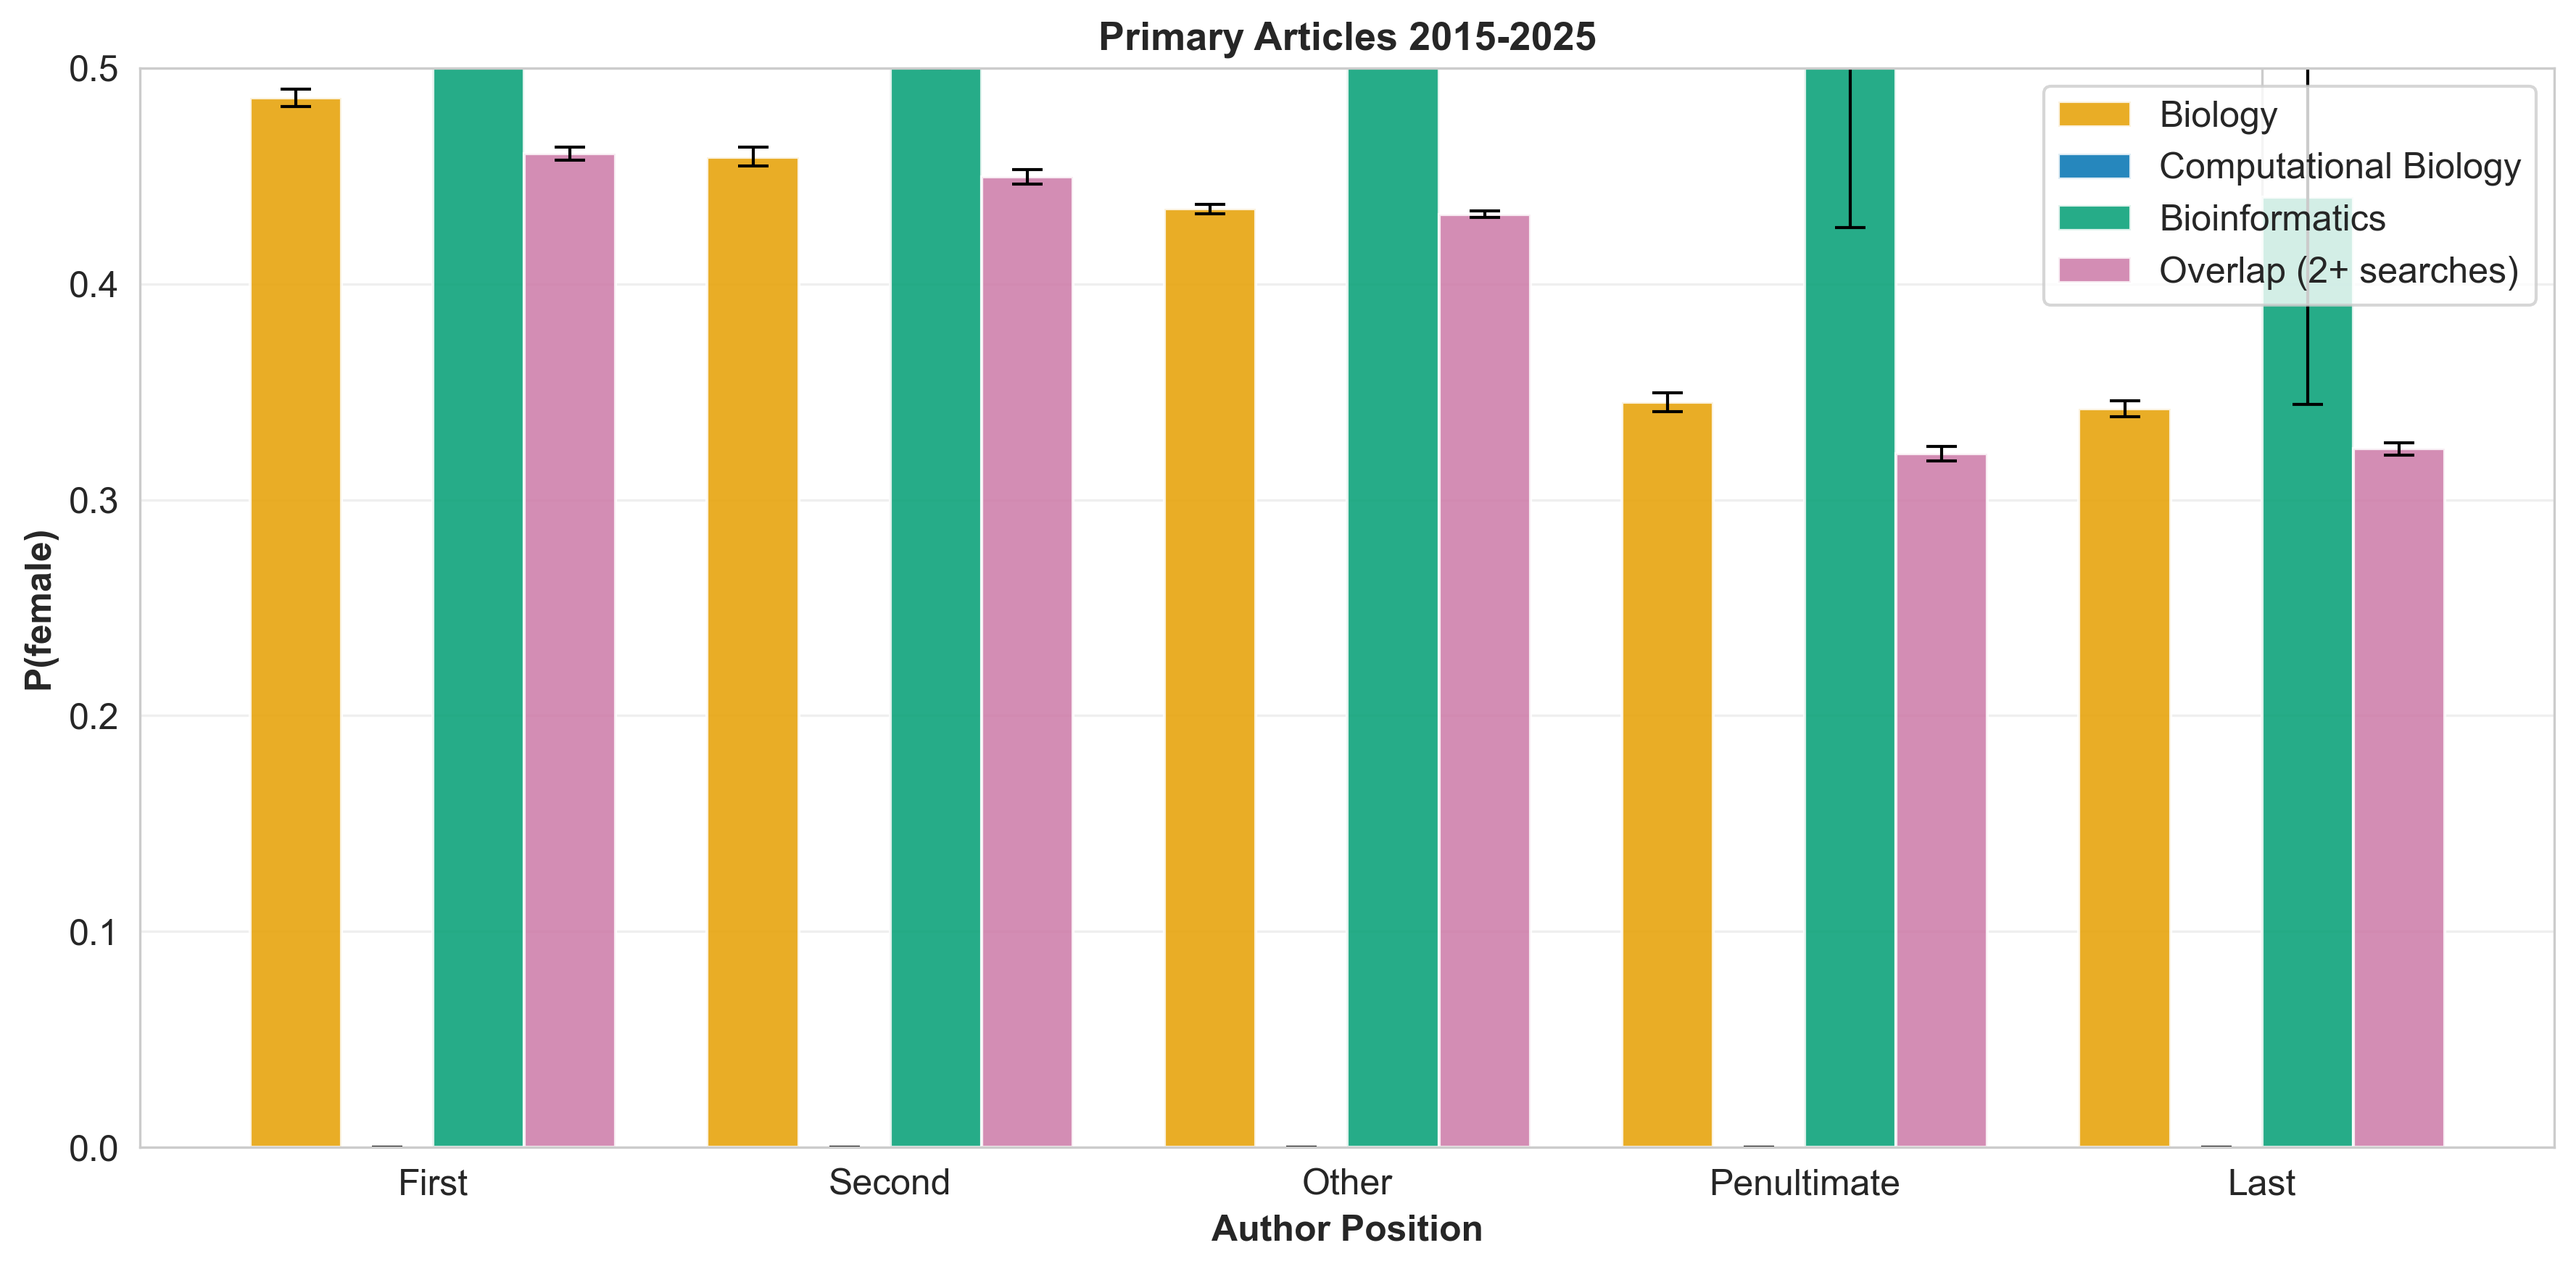
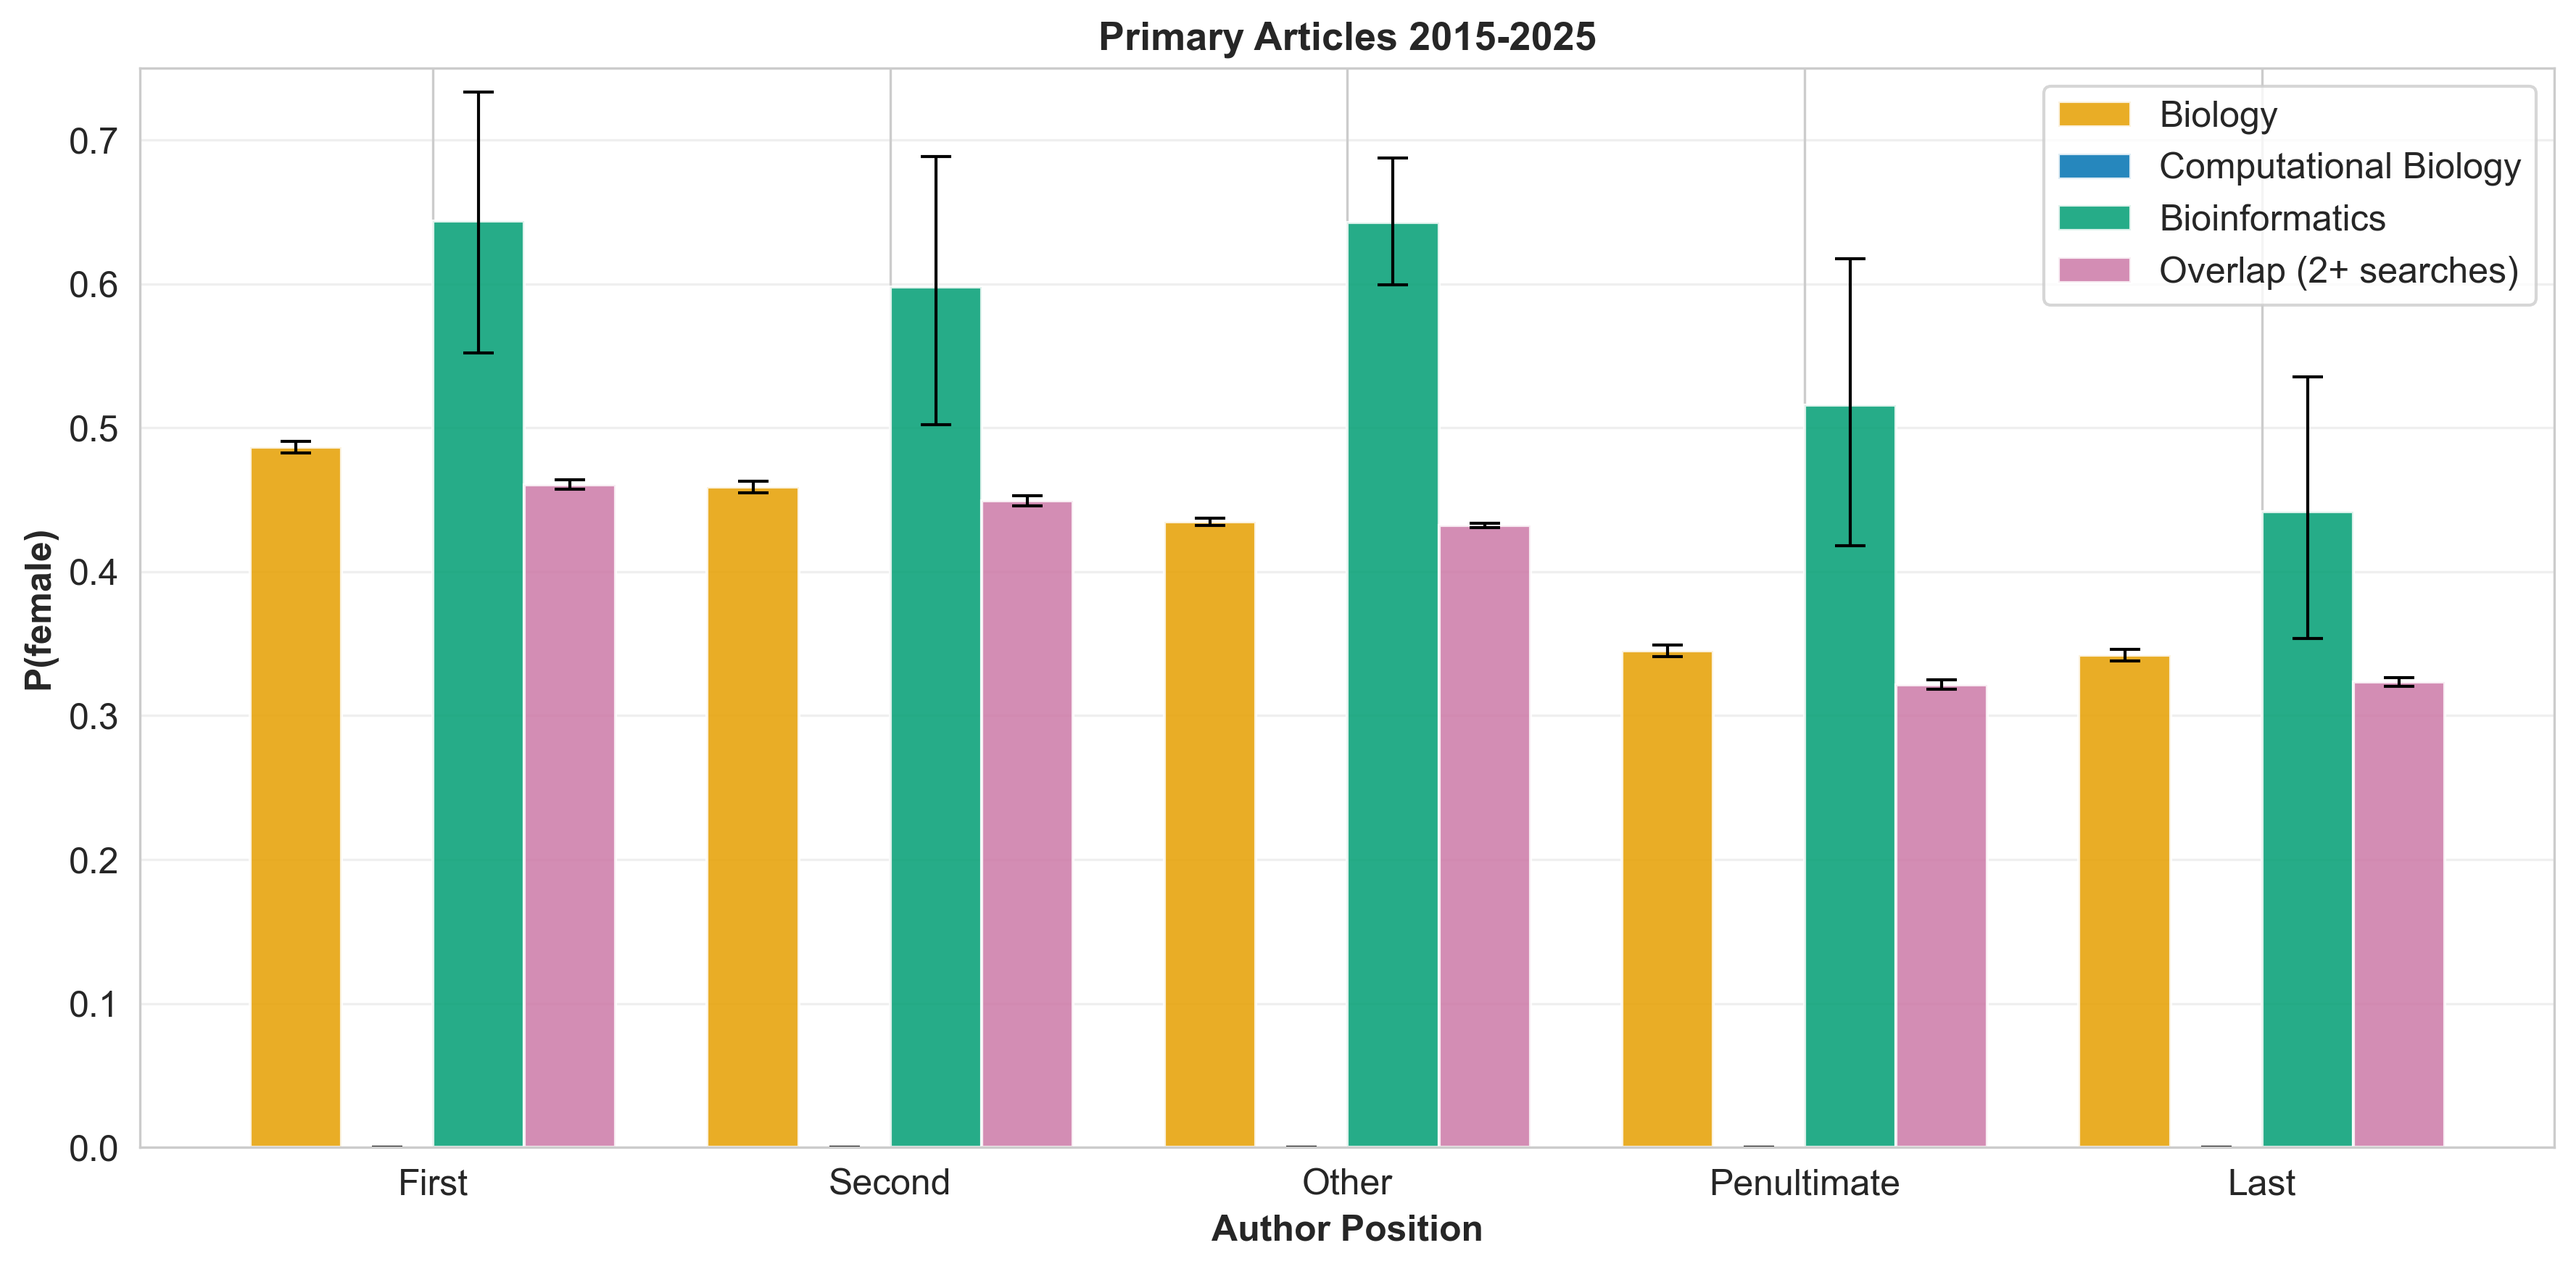
Fix Figure 1A y-axis: increase from 0.65 to 0.75 for proper error bar display
Error bars for Bioinformatics category in the first position were being
cut off at the top of the figure. Increasing the y-axis maximum from 0.65 to
0.75 provides adequate spacing to display all error bars fully while maintaining
the same relative visual proportions.

diff --git a/publications/bwib_deep_dive/figures/figure_1a_position_breakdown.py b/publications/bwib_deep_dive/figures/figure_1a_position_breakdown.py
@@ -119,7 +119,7 @@ def generate_figure_1a(data):
     ax.set_title('Primary Articles 2015-2025', fontsize=13, fontweight='bold')
     ax.set_xticks(x)
     ax.set_xticklabels([p.capitalize() for p in positions])
-    ax.set_ylim([0, 0.65])
+    ax.set_ylim([0, 0.75])
     ax.legend()
     ax.grid(axis='y', alpha=0.3)
 

diff --git a/publications/bwib_deep_dive/Table2_female_authors_with_female_pi.md b/publications/bwib_deep_dive/Table2_female_authors_with_female_pi.md
@@ -3,26 +3,26 @@
 | Dataset | Position | PI Gender | Mean | 95% CI Lower | 95% CI Upper |
 |---------|----------|-----------|------|-------------|-------------|
 | Biology | first | Male | 0.459 | 0.453 | 0.465 |
-| Biology | first | Female | 0.593 | 0.585 | 0.601 |
+| Biology | first | Female | 0.593 | 0.585 | 0.600 |
 | Biology | second | Male | 0.433 | 0.427 | 0.439 |
 | Biology | second | Female | 0.536 | 0.528 | 0.544 |
 | Biology | other | Male | 0.417 | 0.414 | 0.420 |
-| Biology | other | Female | 0.505 | 0.500 | 0.509 |
-| Biology | penultimate | Male | 0.318 | 0.313 | 0.324 |
+| Biology | other | Female | 0.504 | 0.500 | 0.509 |
+| Biology | penultimate | Male | 0.318 | 0.312 | 0.325 |
 | Biology | penultimate | Female | 0.421 | 0.412 | 0.430 |
 | Computational Biology | first | Male | 0.410 | 0.404 | 0.417 |
 | Computational Biology | first | Female | 0.526 | 0.515 | 0.536 |
-| Computational Biology | second | Male | 0.413 | 0.406 | 0.420 |
+| Computational Biology | second | Male | 0.413 | 0.406 | 0.419 |
 | Computational Biology | second | Female | 0.494 | 0.483 | 0.505 |
 | Computational Biology | other | Male | 0.409 | 0.406 | 0.413 |
 | Computational Biology | other | Female | 0.471 | 0.466 | 0.476 |
 | Computational Biology | penultimate | Male | 0.298 | 0.291 | 0.305 |
-| Computational Biology | penultimate | Female | 0.362 | 0.351 | 0.373 |
-| Bioinformatics | first | Male | 0.456 | 0.450 | 0.462 |
-| Bioinformatics | first | Female | 0.558 | 0.550 | 0.567 |
+| Computational Biology | penultimate | Female | 0.362 | 0.351 | 0.372 |
+| Bioinformatics | first | Male | 0.456 | 0.451 | 0.462 |
+| Bioinformatics | first | Female | 0.559 | 0.550 | 0.567 |
 | Bioinformatics | second | Male | 0.445 | 0.439 | 0.451 |
-| Bioinformatics | second | Female | 0.526 | 0.518 | 0.535 |
+| Bioinformatics | second | Female | 0.527 | 0.518 | 0.536 |
 | Bioinformatics | other | Male | 0.426 | 0.423 | 0.428 |
 | Bioinformatics | other | Female | 0.487 | 0.484 | 0.491 |
-| Bioinformatics | penultimate | Male | 0.314 | 0.308 | 0.319 |
+| Bioinformatics | penultimate | Male | 0.314 | 0.308 | 0.320 |
 | Bioinformatics | penultimate | Female | 0.369 | 0.360 | 0.377 |

diff --git a/publications/bwib_deep_dive/Table2_pi_effect_by_search_overlap.md b/publications/bwib_deep_dive/Table2_pi_effect_by_search_overlap.md
@@ -1,0 +1,28 @@
+## Table 2B. Female PI Effect by Search Term Category (2015–2025)
+
+| Search Category | Position | PI Gender | Mean | 95% CI Lower | 95% CI Upper | N |
+|---------|----------|-----------|------|-------------|-------------|---------|
+| Biology | first | Male | 0.459 | 0.453 | 0.465 | 26,872 |
+| Biology | first | Female | 0.593 | 0.584 | 0.600 | 13,977 |
+| Biology | second | Male | 0.433 | 0.427 | 0.439 | 25,056 |
+| Biology | second | Female | 0.536 | 0.528 | 0.545 | 13,084 |
+| Biology | other | Male | 0.417 | 0.414 | 0.420 | 94,657 |
+| Biology | other | Female | 0.505 | 0.500 | 0.509 | 45,640 |
+| Biology | penultimate | Male | 0.318 | 0.312 | 0.324 | 22,568 |
+| Biology | penultimate | Female | 0.421 | 0.412 | 0.430 | 11,777 |
+| Bioinformatics | first | Male | 0.609 | 0.464 | 0.762 | 42 |
+| Bioinformatics | first | Female | 0.702 | 0.516 | 0.863 | 31 |
+| Bioinformatics | second | Male | 0.570 | 0.421 | 0.720 | 41 |
+| Bioinformatics | second | Female | 0.620 | 0.455 | 0.773 | 33 |
+| Bioinformatics | other | Male | 0.609 | 0.538 | 0.682 | 177 |
+| Bioinformatics | other | Female | 0.768 | 0.696 | 0.833 | 124 |
+| Bioinformatics | penultimate | Male | 0.485 | 0.333 | 0.635 | 39 |
+| Bioinformatics | penultimate | Female | 0.558 | 0.382 | 0.735 | 34 |
+| Overlap | first | Male | 0.436 | 0.432 | 0.441 | 44,748 |
+| Overlap | first | Female | 0.545 | 0.539 | 0.551 | 21,240 |
+| Overlap | second | Male | 0.431 | 0.427 | 0.436 | 42,061 |
+| Overlap | second | Female | 0.513 | 0.507 | 0.520 | 20,192 |
+| Overlap | other | Male | 0.419 | 0.417 | 0.421 | 222,177 |
+| Overlap | other | Female | 0.481 | 0.478 | 0.484 | 107,165 |
+| Overlap | penultimate | Male | 0.307 | 0.303 | 0.311 | 39,323 |
+| Overlap | penultimate | Female | 0.366 | 0.359 | 0.372 | 19,353 |

diff --git a/publications/bwib_deep_dive/Table1_proportion_female_authors.md b/publications/bwib_deep_dive/Table1_proportion_female_authors.md
@@ -2,18 +2,18 @@
 
 | Dataset | Position | Mean | 95% CI Lower | 95% CI Upper |
 |---------|----------|------|-------------|-------------|
-| Biology | first | 0.486 | 0.482 | 0.491 |
-| Biology | second | 0.459 | 0.455 | 0.462 |
+| Biology | first | 0.486 | 0.482 | 0.490 |
+| Biology | second | 0.459 | 0.455 | 0.463 |
 | Biology | other | 0.435 | 0.433 | 0.437 |
 | Biology | penultimate | 0.345 | 0.341 | 0.349 |
 | Biology | last | 0.342 | 0.338 | 0.346 |
 | Computational Biology | first | 0.437 | 0.432 | 0.442 |
 | Computational Biology | second | 0.432 | 0.427 | 0.437 |
 | Computational Biology | other | 0.422 | 0.420 | 0.425 |
-| Computational Biology | penultimate | 0.313 | 0.308 | 0.318 |
+| Computational Biology | penultimate | 0.313 | 0.308 | 0.319 |
 | Computational Biology | last | 0.312 | 0.308 | 0.317 |
 | Bioinformatics | first | 0.478 | 0.473 | 0.482 |
 | Bioinformatics | second | 0.462 | 0.458 | 0.467 |
-| Bioinformatics | other | 0.438 | 0.436 | 0.440 |
+| Bioinformatics | other | 0.438 | 0.437 | 0.440 |
 | Bioinformatics | penultimate | 0.327 | 0.323 | 0.332 |
 | Bioinformatics | last | 0.332 | 0.328 | 0.336 |
